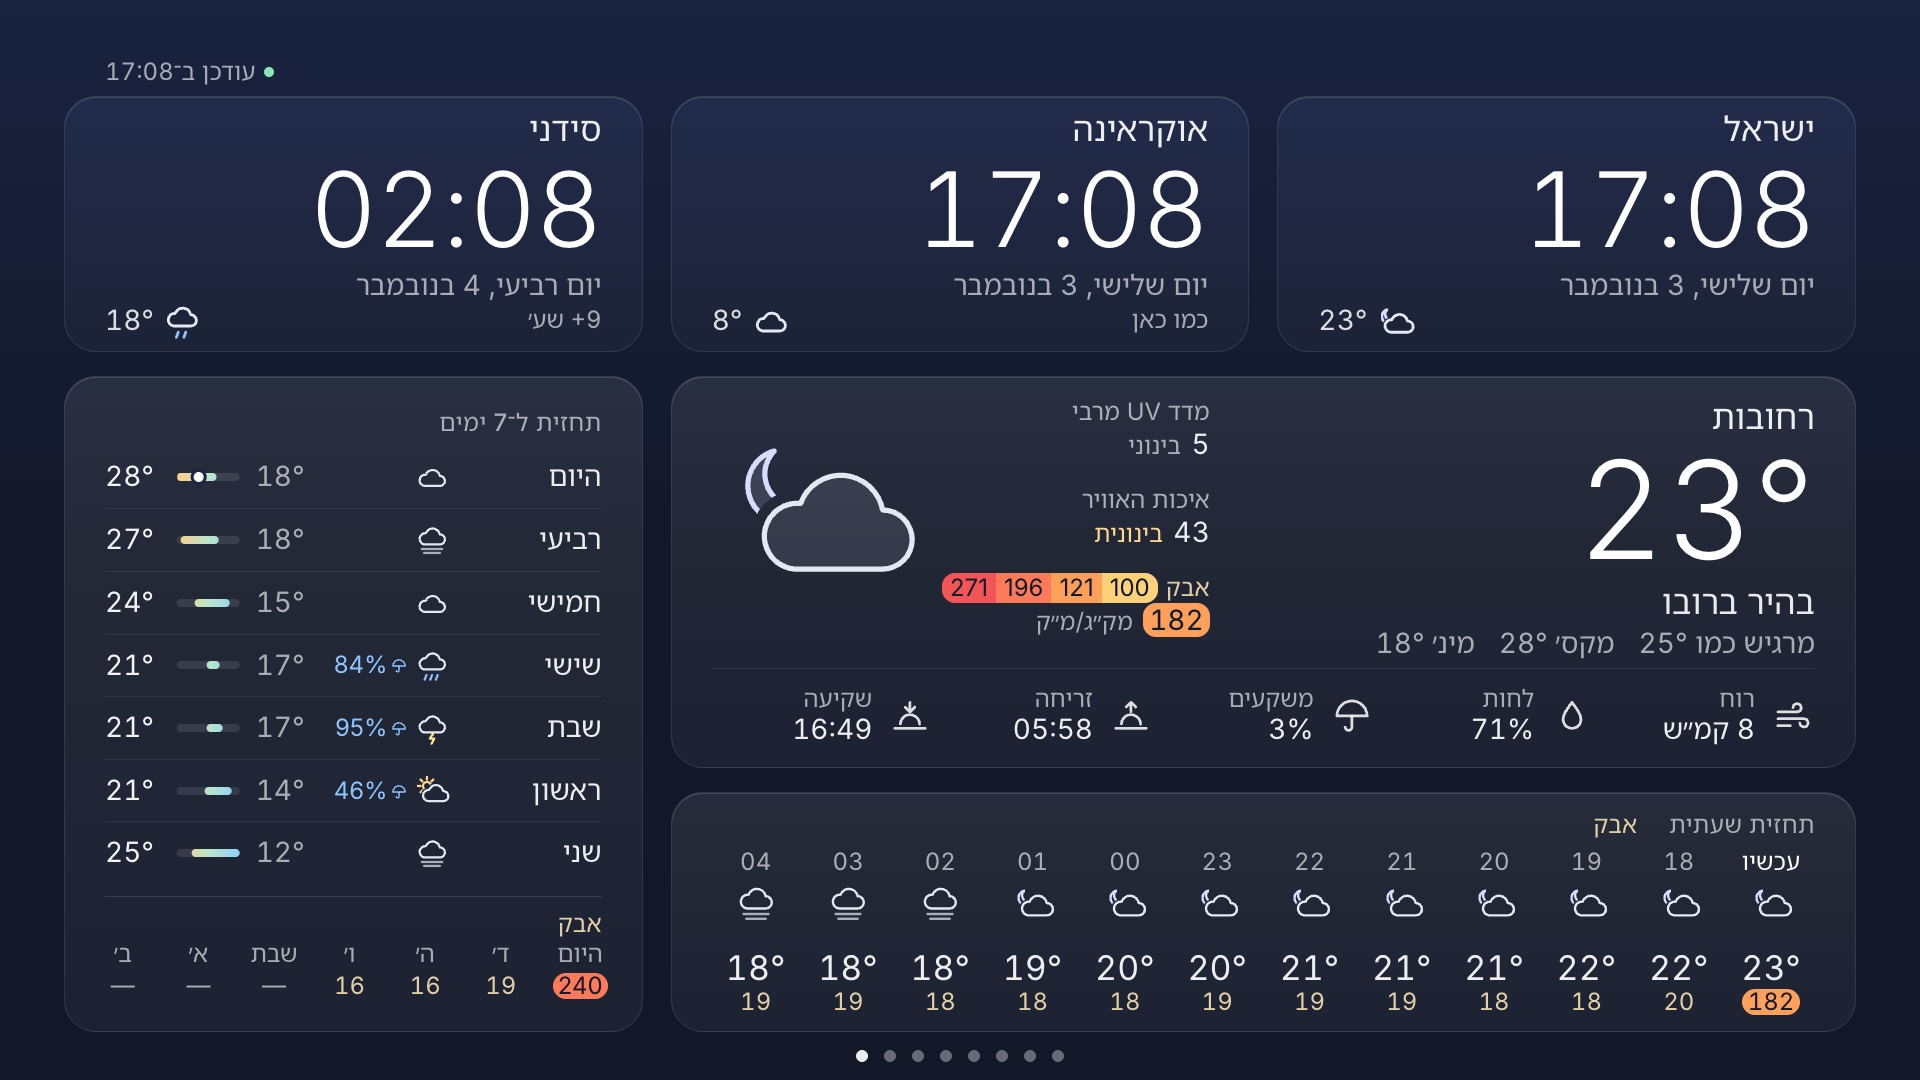
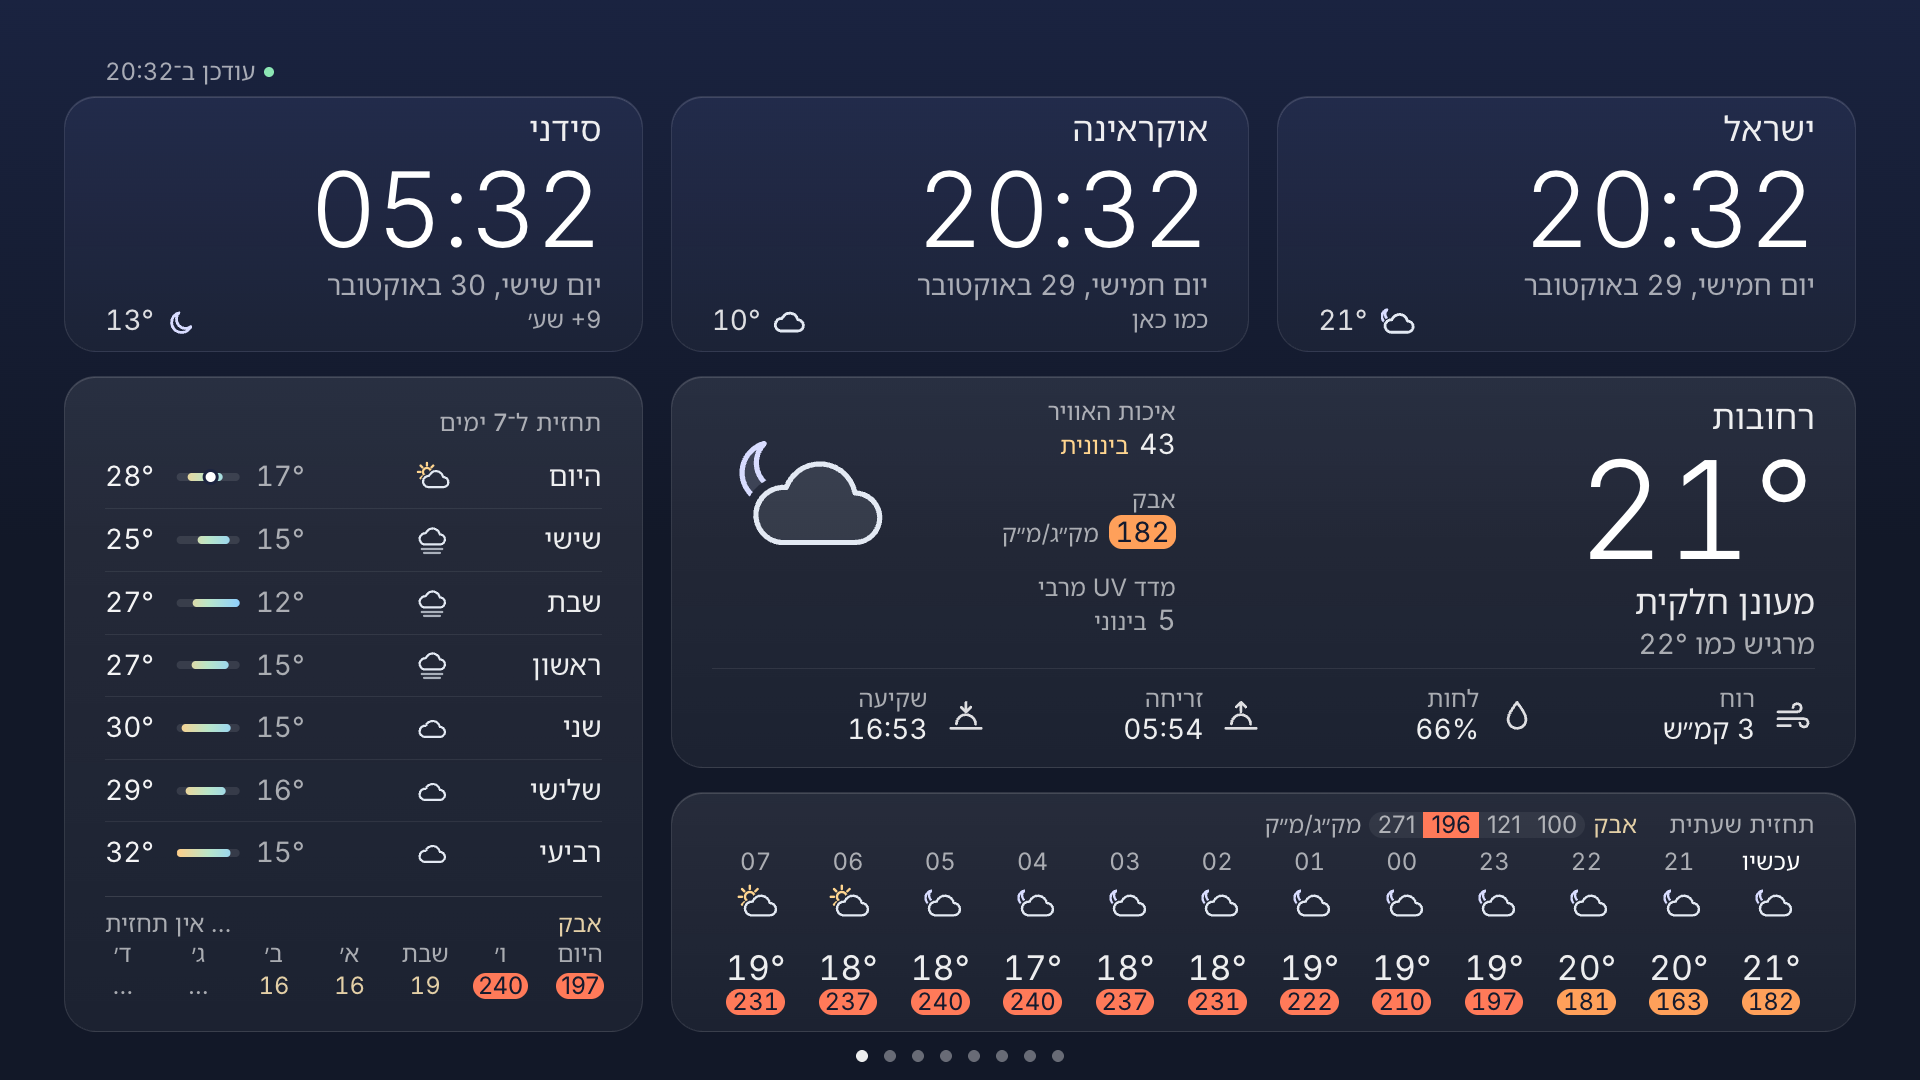
README: retake the gallery for batches 21–25
Owner (2026-11-04): «если нужно обнови Ридми».
- Every screenshot retaken from the current code (fixture mode, no TV):
  the unloaded Rehovot card, the dust key in the hourly title row, the
  dust band (khamsin values, «…» past the source's horizon), Markets on
  Coinbase (Zcash, «% since 09:31»), the new alerts-history source.
- tools/readme-shots.mjs: the khamsin air recording is moved onto the
  weather recording's dates; Markets shots get a basis rates table first
  so the FX % and its label show; both documented in the header.
- The traffic map is a real Mapbox Static Images picture (--map).
- Alt texts and the gallery caption match the new pictures. 807/807.

diff --git a/README.md b/README.md
@@ -30,22 +30,22 @@
 **Eight screens that change by themselves every 45 seconds (Markets stays 90), or with ◀ ▶ on the remote:** clocks and the weather at home, the weather across Israel, the news, the markets, Shabbat and holidays, live traffic for ten routes, a live traffic map and the Pikud HaOref alerts. Calm dark glass cards readable from the sofa, the same app in Russian, Hebrew (fully right to left) and Ukrainian, and a red alert that takes over every screen when it matters. Below: all eight screens together, then each one on its own, then the other languages.
 
 <p align="center">
-  <img src="docs/screenshots/hero.png" width="1000" alt="All eight screens in Hebrew: clocks, weather, air quality and UV at home, weather across Israel, news, markets, Shabbat and holidays with the week's Torah reading, live traffic for ten routes, the live traffic map, and the Pikud HaOref alerts screen">
+  <img src="docs/screenshots/hero.png" width="1000" alt="All eight screens in Hebrew: clocks, weather, air quality and UV at home during a khamsin, weather and dust across Israel, news, markets, Shabbat and holidays with the week's Torah reading, live traffic for ten routes, the live traffic map, and the Pikud HaOref alerts screen with the recent alerts in Israel">
 </p>
 
 ### Each screen
 
 <table>
   <tr>
-    <td><img src="docs/screenshots/he-1-main.png" alt="Home screen in Hebrew: clocks for Israel, Ukraine and Sydney, the weather in Rehovot with three labelled items (UV maximum, air quality, dust in µg/m³), a 12-hour strip with each hour's dust, and a 7-day forecast on one line per day (the chance of rain beside the icon) with the days' dust in a band under it, mirrored right to left"></td>
-    <td><img src="docs/screenshots/he-2-israel.png" alt="Weather across Israel in Hebrew: North (Haifa), Centre (Tel Aviv) and South (Beer Sheva), each with a labelled air-quality line, the temperature now with its icon, feels-like and wind on one line (an icon for each), and a 7-day forecast (the chance of rain beside the icon) with the days' dust in a band under it"></td>
+    <td><img src="docs/screenshots/he-1-main.png" alt="Home screen in Hebrew during a khamsin: clocks for Israel, Ukraine and Sydney; the Rehovot card with the temperature, its icon and three labelled items (air quality, dust 182 µg/m³ on its grade's pill, UV maximum), and wind, humidity, sunrise and sunset under a divider; a 12-hour strip whose title row carries the dust key (the grades 100, 121, 196 and 271, the current one lit) and each hour's dust on a pill in its grade's colour; and a 7-day forecast on one line per day with the days' dust in a band under it (five days forecast, the last two marked as no forecast yet), mirrored right to left"></td>
+    <td><img src="docs/screenshots/he-2-israel.png" alt="Weather across Israel in Hebrew: North (Haifa), Centre (Tel Aviv) and South (Beer Sheva), each with a labelled air-quality line, the temperature now with its icon, feels-like and wind on one line (an icon for each), and a 7-day forecast with the days' dust in a band under it (Beer Sheva's 185 µg/m³ day and Tel Aviv's 169 on their grade's pills, the last two days marked as no forecast yet)"></td>
   </tr>
   <tr><td align="center"><b>1 · Home</b> — clocks, the weather, air and UV at home</td><td align="center"><b>2 · Weather in Israel</b> — North, Centre, South</td></tr>
   <tr>
     <td><img src="docs/screenshots/he-3-news.png" alt="News in Hebrew: Ynet and Globes columns, five headlines each, newest first"></td>
-    <td><img src="docs/screenshots/he-4-markets.png" alt="Markets in Hebrew: six cards of six rows, currencies, US shares and Israeli shares on top, crypto, US indices and commodities below, each price with the day's change, each commodity with what its price is for (per barrel, per ounce), mirrored right to left"></td>
+    <td><img src="docs/screenshots/he-4-markets.png" alt="Markets in Hebrew: six cards of six rows, currencies, US shares and Israeli shares on top, crypto (Bitcoin to Zcash), US indices and commodities below, each price with its change (the currencies since 09:31, as their card's header says; the US and Israeli cards marked closed), each commodity with what its price is for (per barrel, per ounce), mirrored right to left"></td>
   </tr>
-  <tr><td align="center"><b>3 · News</b> — the sources follow the language</td><td align="center"><b>4 · Markets</b> — six cards, the day's change</td></tr>
+  <tr><td align="center"><b>3 · News</b> — the sources follow the language</td><td align="center"><b>4 · Markets</b> — six cards, each price's change</td></tr>
   <tr>
     <td><img src="docs/screenshots/he-5-shabbat.png" alt="Shabbat and holidays in Hebrew: Rehovot, today's date and Hebrew date, the weekly portion Chayei Sara with its verses, the haftarah and Shabbat Mevarchim for Kislev, candle lighting and havdalah, and the next holidays and fasts with a countdown"></td>
     <td><img src="docs/screenshots/he-6-traffic.png" alt="Traffic in Hebrew: ten routes from Rehovot in two columns, each with the travel time, the delay against a typical day in colour, and the distance"></td>
@@ -53,16 +53,16 @@
   <tr><td align="center"><b>5 · Shabbat &amp; holidays</b> — the reading, candles, havdalah, what is next</td><td align="center"><b>6 · Traffic</b> — ten routes, live</td></tr>
   <tr>
     <td><img src="docs/screenshots/he-7-map.png" alt="Traffic map in Hebrew: a real Mapbox live-traffic image from Tel Aviv to Ashdod and Jerusalem, coloured road lines, a dot on Rehovot with its name beside it, and a key of the traffic colours in the top-left corner"></td>
-    <td><img src="docs/screenshots/he-8-alerts.png" alt="Alerts screen in Hebrew: no alerts in Rehovot, checked at 17:12, no alerts nearby with the nearby towns listed, and no Pikud HaOref alerts in Israel in the last 7 days"></td>
+    <td><img src="docs/screenshots/he-8-alerts.png" alt="Alerts screen in Hebrew: no alerts in Rehovot, checked at 20:32, no alerts nearby with the nearby towns listed, and the recent Pikud HaOref alerts in Israel, each with its date and time, its kind and its area"></td>
   </tr>
   <tr><td align="center"><b>7 · Traffic map</b> — a real Mapbox picture</td><td align="center"><b>8 · Alerts</b> — home, nearby, recent alerts in Israel</td></tr>
   <tr>
-    <td><img src="docs/screenshots/he-alert.png" alt="A full-screen deep-red alert in Hebrew: rocket and missile fire, Rehovot, since 17:09, enter the protected space and stay 10 minutes"></td>
+    <td><img src="docs/screenshots/he-alert.png" alt="A full-screen deep-red alert in Hebrew: rocket and missile fire, Rehovot, since 20:32, enter the protected space and stay 10 minutes"></td>
     <td><img src="docs/screenshots/he-alert-preview.png" alt="The alert preview in Hebrew: the same overlay under a white band saying this is an alert test, not a real alert"></td>
   </tr>
   <tr><td align="center"><b>The alert</b> — the Alerts screen opens by itself</td><td align="center"><b>The alert preview</b> — the blue key, clearly not real</td></tr>
   <tr>
-    <td><img src="docs/screenshots/he-banner.png" alt="The home screen in Hebrew during an alert at home: a slim red banner at the top says alert in Rehovot since 17:10"></td>
+    <td><img src="docs/screenshots/he-banner.png" alt="The home screen in Hebrew during an alert at home: a slim red banner at the top says alert in Rehovot since 20:32"></td>
     <td><img src="docs/screenshots/he-city.png" alt="The home-city picker in Hebrew: a list of Israeli cities with their English names, Rehovot ticked, arrows to move and OK to choose"></td>
   </tr>
   <tr><td align="center"><b>Alert banner</b> — stays on top of every other screen</td><td align="center"><b>Home city</b> — OK opens the picker</td></tr>
@@ -72,28 +72,30 @@
 
 <table>
   <tr>
-    <td><img src="docs/screenshots/ru-1-main.png" width="420" alt="The home screen in Russian"></td>
+    <td><img src="docs/screenshots/ru-1-main.png" width="420" alt="The home screen in Russian during a khamsin: the Rehovot card with dust 182 µg/m³, the hourly strip with the dust key and each hour's dust, and the 7-day forecast with the days' dust in a band under it"></td>
     <td><img src="docs/screenshots/uk-3-news.png" width="420" alt="News in Ukrainian: Ukraine and Economy columns from Ukrainska Pravda and Ekonomichna Pravda"></td>
   </tr>
   <tr><td align="center">Русский</td><td align="center">Українська</td></tr>
   <tr>
-    <td><img src="docs/screenshots/ru-4-markets.png" width="420" alt="Markets in Russian: currencies, US shares, Israeli shares, crypto, US indices and commodities"></td>
-    <td><img src="docs/screenshots/uk-4-markets.png" width="420" alt="Markets in Ukrainian: currencies, US shares, Israeli shares, crypto, US indices and commodities"></td>
+    <td><img src="docs/screenshots/ru-4-markets.png" width="420" alt="Markets in Russian: currencies (with the change since 09:31), US shares, Israeli shares, crypto, US indices and commodities"></td>
+    <td><img src="docs/screenshots/uk-4-markets.png" width="420" alt="Markets in Ukrainian: currencies (with the change since 09:31), US shares, Israeli shares, crypto, US indices and commodities"></td>
   </tr>
   <tr><td align="center">Русский · Рынки</td><td align="center">Українська · Ринки</td></tr>
 </table>
 
-<sub>Screenshots at 1920×1080 in desktop Chrome (<code>tools/readme-shots.mjs --live</code>), taken on 3 November 2026 at 17:08–17:10 (the Alerts screen at 17:12).
-<b>Live</b> (the real answers at that moment): the news (Ynet, Globes, Українська правда, Економічна правда, at 17:08–17:10),
-the Markets (Yahoo Finance, and the earlier free rates source for the currencies: since 4 November the crypto and every
-currency come from Coinbase, so the two Markets shots predate that), Shabbat and holidays (Hebcal), the traffic routes and the traffic map (Mapbox), the
-Alerts screen (Pikud HaOref's live feed and its recent-alerts history, both empty at 17:12: no alerts in the last 7 days), and the
-weather on every screen (Open-Meteo). <b>Recorded and demo air</b> on the home and Israel weather screens and on the banner and
-city-picker shots over the home screen (with their live weather), so they show a khamsin: Rehovot's dust is a synthetic khamsin laid over
-its recorded forecast (khamsin pills in the hours and in the 7-day dust band, each in its grade's colour, the one key — the grades «100 121 196 271» — lit on the current card, whose reading sits on its own grade's pill), and Beer Sheva's
-185 µg/m³ day is its real recorded forecast. <b>Demo alert:</b> there was no real alert, so the full-screen alert and the red
-banner show Pikud HaOref's recorded Rehovot alert drawn at the shot's time; the blue-key preview is the app's own built-in
-test alert.</sub>
+<sub>Screenshots at 1920×1080 in desktop Chrome (<code>tools/readme-shots.mjs</code>), drawn on 4 November 2026 from the
+recorded answers in <code>tests/fixtures</code>, each screen at the moment its answers were recorded: 20:32 on 29 October for the
+weather, news, traffic, map and alert screens, 09:31 on 2 November for Markets and Shabbat. <b>Recorded:</b> the news (Ynet,
+Globes, Українська правда, Економічна правда), the traffic routes (Mapbox Directions); the traffic map is a real Mapbox Static Images picture taken 4 November (`--map`), Pikud HaOref's recent alerts,
+Shabbat and holidays (Hebcal), the weather (Open-Meteo), and the Markets: Yahoo Finance's quotes (2 November) and Coinbase's
+crypto and dollar table (4 November). The currency changes are against an earlier table of the day made up for the shot (the
+first rates answer, read at 09:31), so the currencies card says «% since 09:31». <b>Khamsin:</b> on the home and Israel weather
+screens and on the banner and city-picker shots over the home screen, Rehovot's dust is a synthetic khamsin laid over its
+recorded forecast, its hours moved onto the weather recording's dates (khamsin pills in the hours and in the 7-day dust band,
+each in its grade's colour; the one key — the grades «100 121 196 271» — in the hourly strip's title row with the current grade
+lit; the current card's dust reading on its own grade's pill), and Beer Sheva's 185 µg/m³ day is its real recorded forecast; the air recording covers five days, so the band's
+last two days say there is no forecast yet. <b>Demo alert:</b> the full-screen alert and the red banner show Pikud HaOref's
+recorded Rehovot alert drawn at the shot's time; the blue-key preview is the app's own built-in test alert.</sub>
 
 ## Three languages, one remote
 
